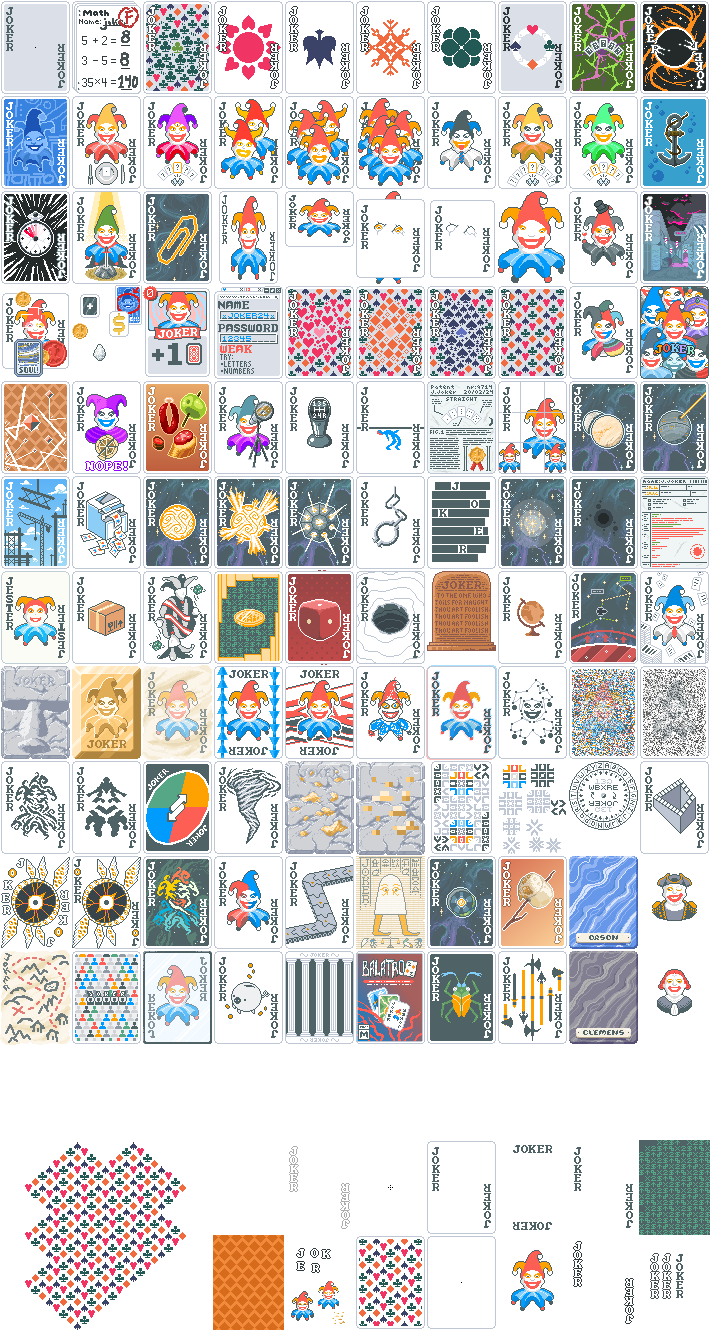
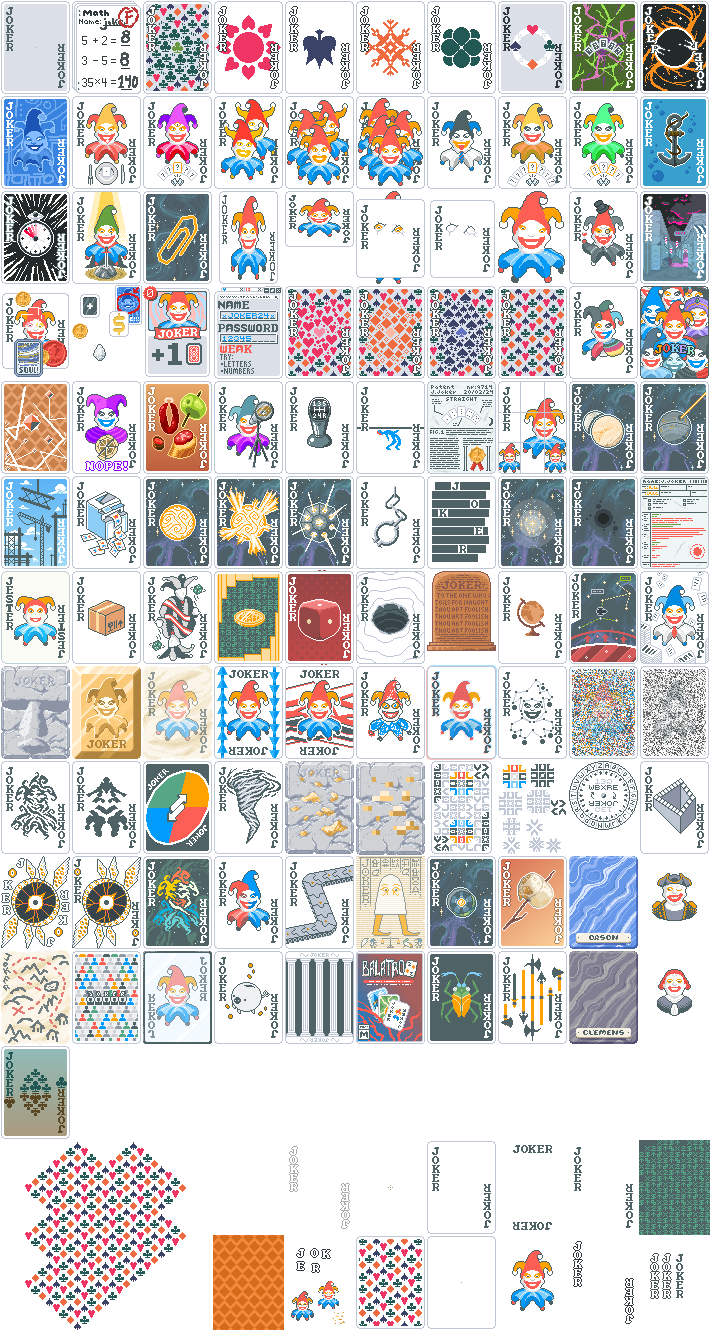
Add Compost

Changed region(s): [[0.0, 0.7707, 0.093, 0.8632]]

diff --git a/web/addjokers.js b/web/addjokers.js
@@ -806,6 +806,14 @@ let jokers = [
     image_url: "img/j/armory.png",
     rarity: "Common"
   },
+  {
+    name: "Compost",
+    text: [
+        "This Joker gains {C:mult}+2{} Mult for every {C:clubs}Club{} card discarded this round",
+    ],
+    image_url: "img/j/compost.png",
+    rarity: "Common"
+  },
 
   // {
   //   name: "",
